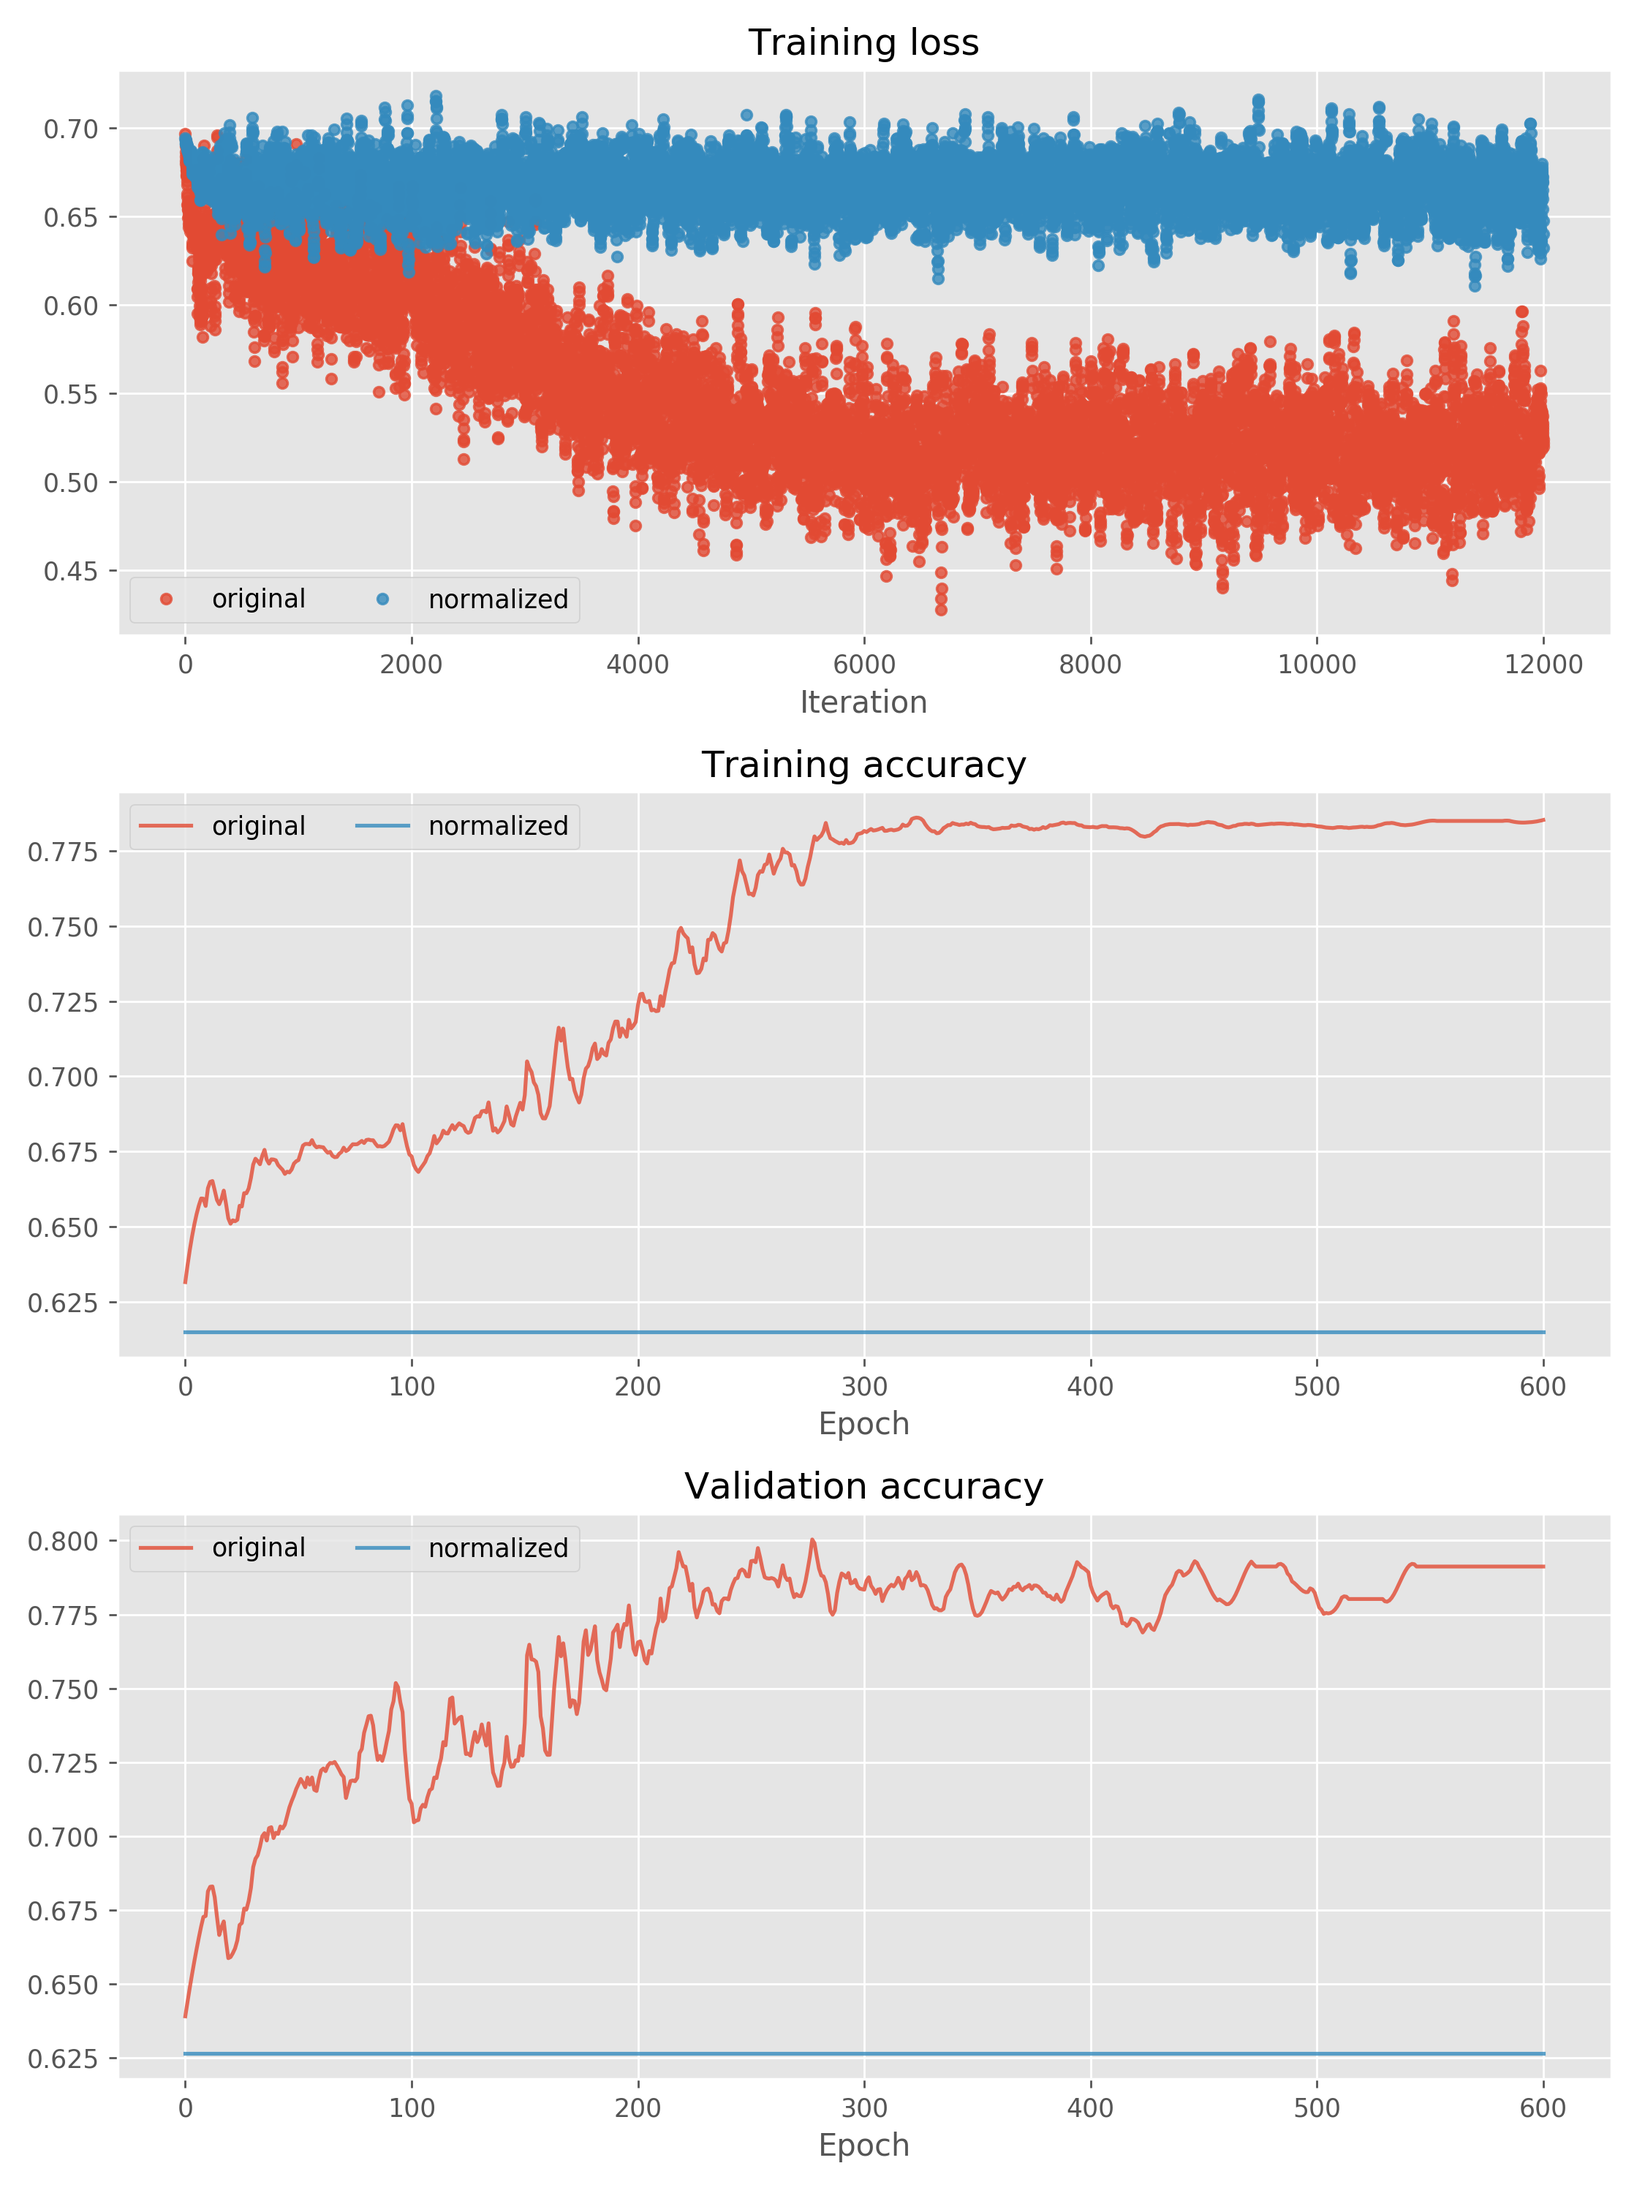
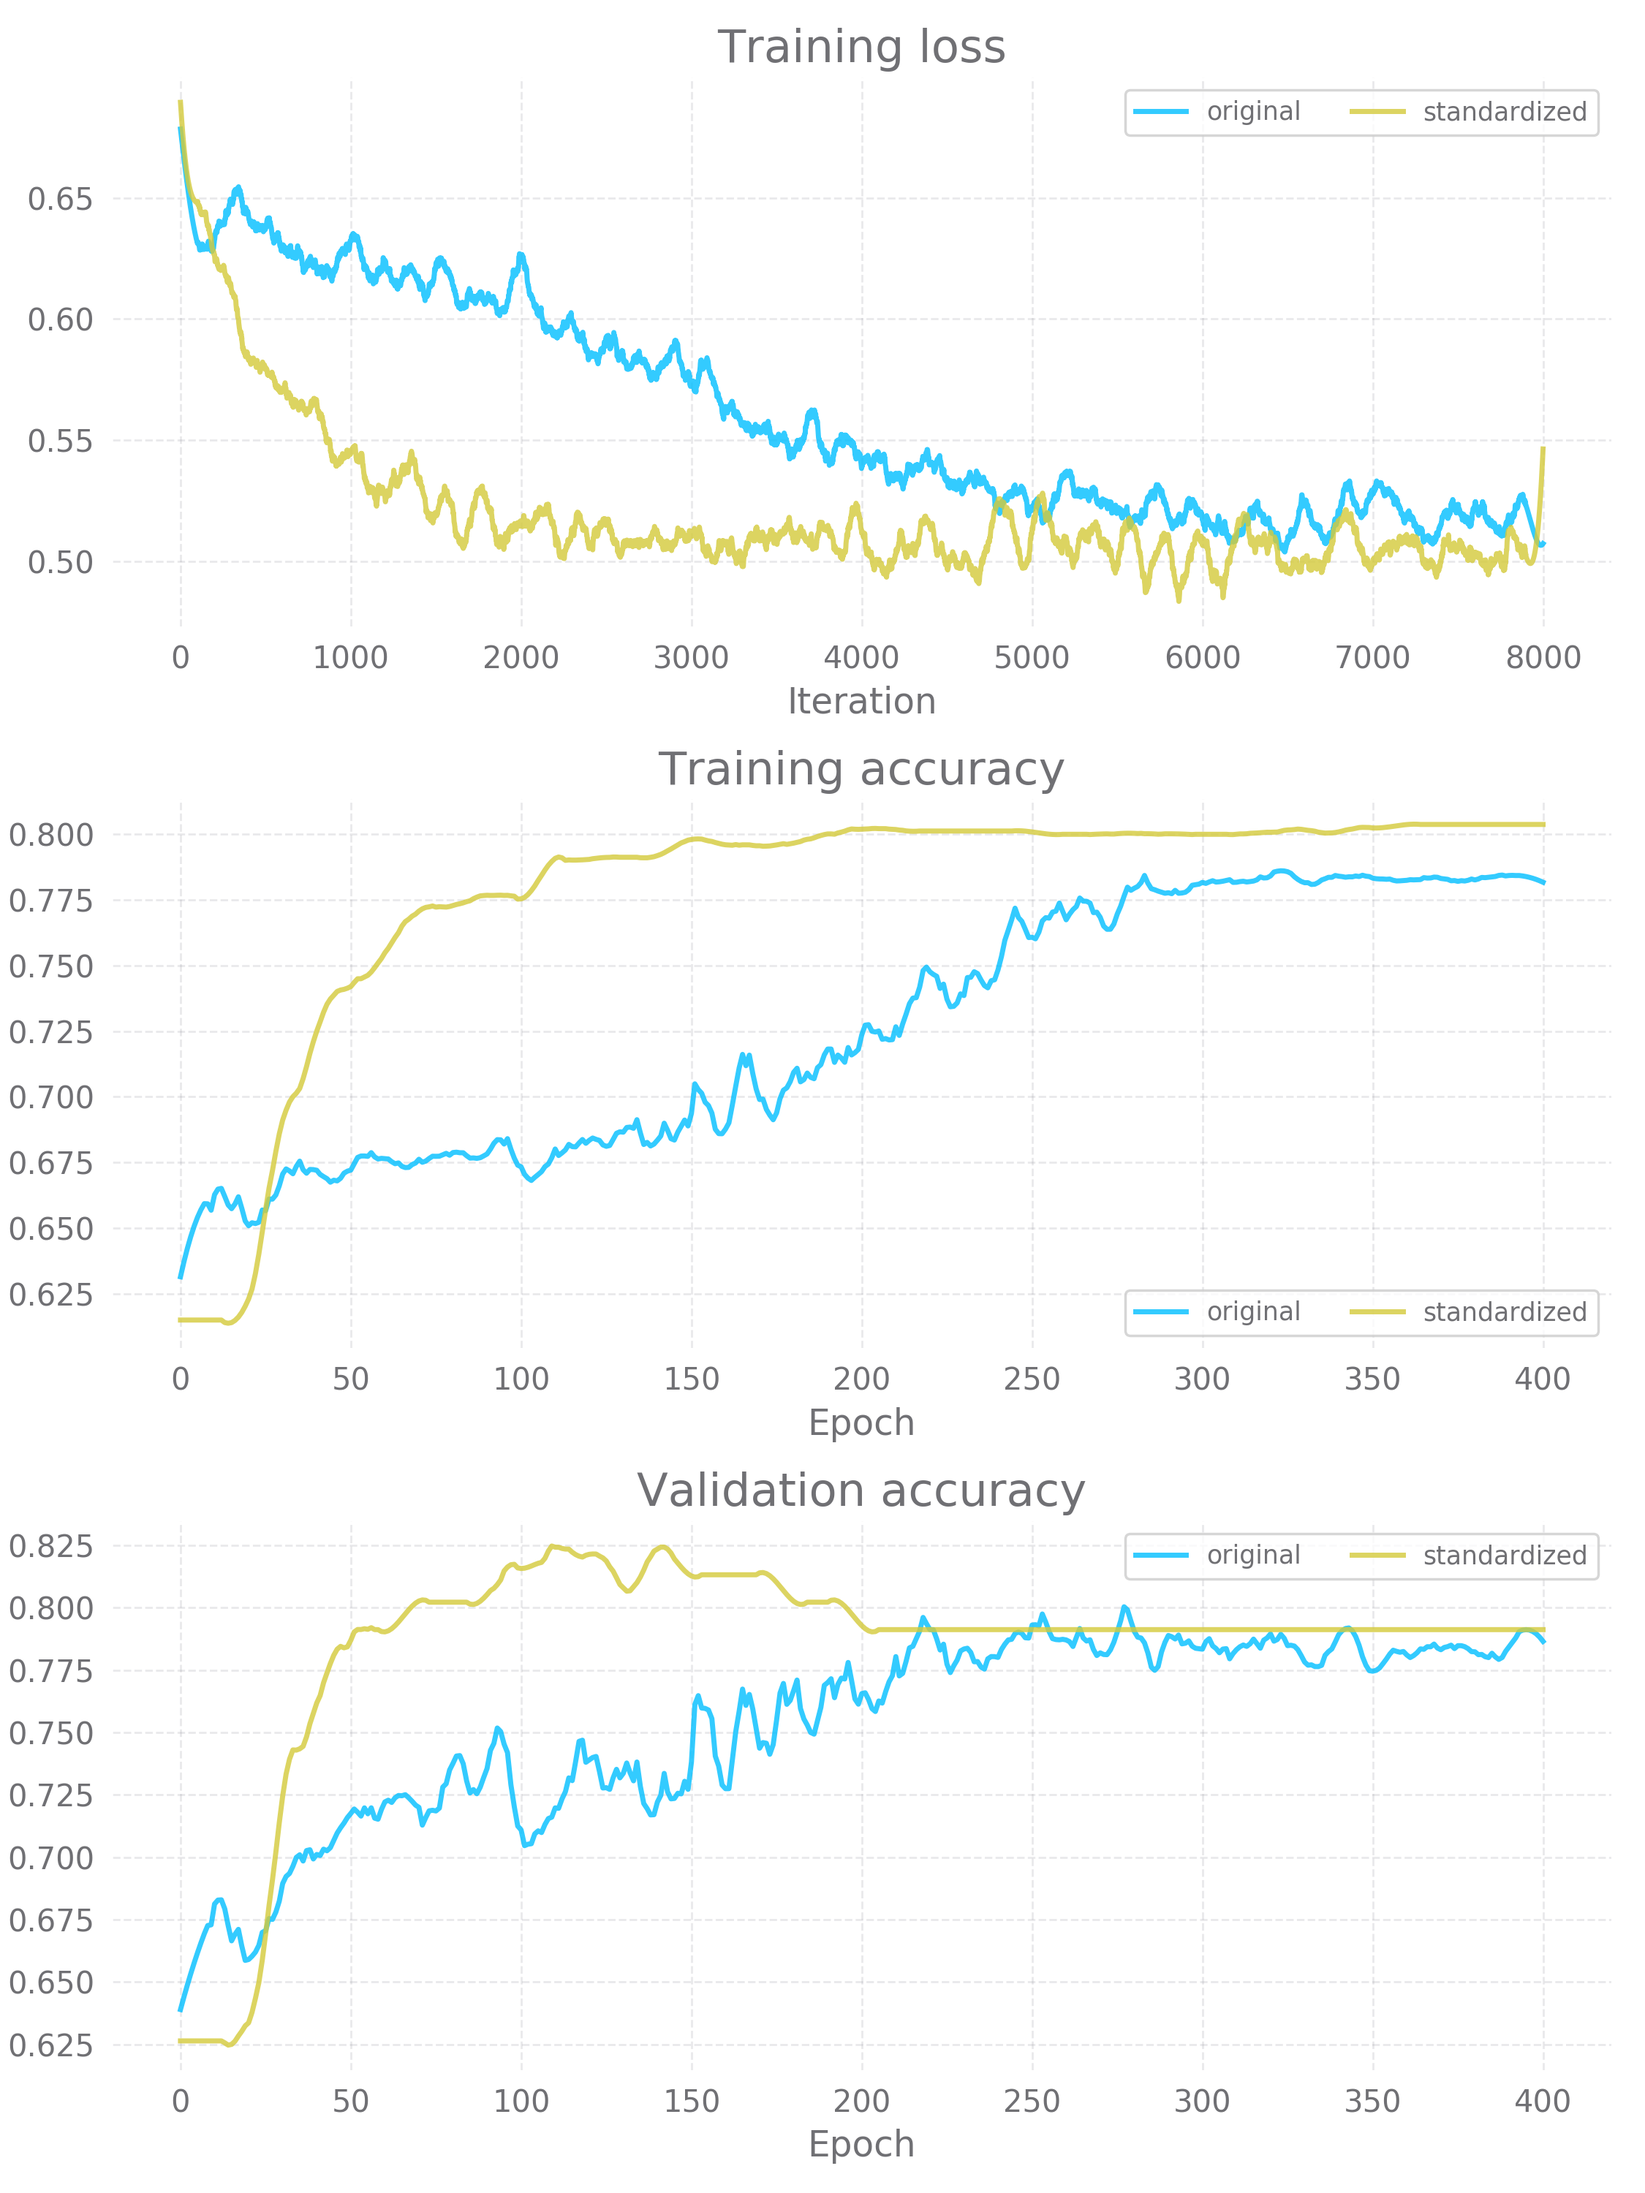
update

diff --git a/main.py b/main.py
@@ -92,7 +92,7 @@ def grid_search(data, **kwargs):
     return
 
 
-def plot(solver, filename):
+def plot(solver, filename, a=1, m='-o'):
     plt.subplot(3, 1, 1)
     plt.title('Training loss')
     plt.xlabel('Iteration')
@@ -106,11 +106,11 @@ def plot(solver, filename):
     plt.xlabel('Epoch')
 
     plt.subplot(3, 1, 1)
-    plt.plot(solver.loss_history, 'o', markersize=4)
+    plt.plot(solver.loss_history, 'o', markersize=4, alpha=a)
     plt.subplot(3, 1, 2)
-    plt.plot(solver.train_acc_history, '-o', markersize=4)
+    plt.plot(solver.train_acc_history, m, markersize=4, alpha=a)
     plt.subplot(3, 1, 3)
-    plt.plot(solver.val_acc_history, '-o', markersize=4)
+    plt.plot(solver.val_acc_history, m, markersize=4, alpha=a)
 
     for i in [1, 2, 3]:
         plt.subplot(3, 1, i)
@@ -346,30 +346,30 @@ def problem2():
     #                             num_classes=2,
     #                             weight_scale=5e-2,
     #                             reg=1e-5)
-    grid_search(
-        data,
-        weight_scale=list(np.logspace(0, -3, 4)),
-        reg=list(np.logspace(-1, -5, 5)),
-        lr=list(np.logspace(-1, -4, 8)),
-        lr_dec=list(np.linspace(0.9, 1, 5)),
-        batch_size=list(np.linspace(5, 100, 5, dtype=int))
-    )
+    # grid_search(
+    #     data,
+    #     weight_scale=list(np.logspace(0, -3, 4)),
+    #     reg=list(np.logspace(-1, -5, 5)),
+    #     lr=list(np.logspace(-1, -4, 8)),
+    #     lr_dec=list(np.linspace(0.9, 1, 5)),
+    #     batch_size=list(np.linspace(5, 100, 5, dtype=int))
+    # )
     # return
     model_2 = FullyConnectedNet([3, 3],
                                 input_dim=6,
                                 num_classes=2,
-                                weight_scale=0.01,
-                                reg=0.1)
+                                weight_scale=0.05,
+                                reg=1e-5)
     solver_2 = Solver(
         model_2,
         data,
         update_rule='sgd',
         optim_config={
-            'learning_rate': 0.0002682695795279727,
+            'learning_rate': 0.01,
         },
         lr_decay=0.999,
-        num_epochs=1000,
-        batch_size=26,
+        num_epochs=800,
+        batch_size=8,
         print_every=100,
         verbose=False)
 
@@ -386,7 +386,8 @@ def problem2():
     #     print_every=100,
     #     verbose=False)
     solver_2.train()
-    plot_smooth(solver_2, 'prob2.png', a=0.8, m='-')
+    # plot_smooth(solver_2, 'prob2.png', a=0.8, m='-')
+    plot(solver_2, 'prob2.png', a=0.8, m='-')
     return
 
 
@@ -448,7 +449,7 @@ def problem3():
     model_3_nor = FullyConnectedNet([3, 3],
                                     input_dim=6,
                                     num_classes=2,
-                                    weight_scale=5e-2,
+                                    weight_scale=5e-1,
                                     reg=1e-4)
     solver_3_nor = Solver(
         model_3_nor,
@@ -573,9 +574,9 @@ def problem5():
         optim_config={
             'learning_rate': 0.01,
         },
-        lr_decay=0.98,
+        lr_decay=0.999,
         num_epochs=NUM_EPOCH,
-        batch_size=40,
+        batch_size=8,
         print_every=100,
         name='original',
         verbose=False)
@@ -611,15 +612,15 @@ def problem5():
         optim_config={
             'learning_rate': 0.01,
         },
-        lr_decay=0.98,
+        lr_decay=0.999,
         num_epochs=NUM_EPOCH,
-        batch_size=40,
+        batch_size=8,
         print_every=100,
         name='categorical',
         verbose=False)
     solver_5_cat.train()
     plot(solver_5_cat, 'prob5_cat.png')
-    plot_solvers([solver_5, solver_5_cat], 'prob5_compared.png')
+    plot_solvers([solver_5, solver_5_cat], 'prob5_compared.png', m='-')
     return
 
 
@@ -733,9 +734,9 @@ def his(FEAT, feat_analysis, nbin, upper_bound=1e5):
 
 if __name__ == '__main__':
     # problem1()
-    problem2()
+    # problem2()
     # problem3()
     # problem4()
-    # problem5()
+    problem5()
     # problem6()
     pass

diff --git a/README.md b/README.md
@@ -12,14 +12,17 @@
 ### Problem 2
 ![](/result/prob2.png)
 
+
+
 ### Problem 3
 ![](/result/prob3_compared.png)
+According to the figures, it is obvious that standardization on scalar feature is helpful. Model with standardization converges faster than that without standardization. We also find that we need to initialize larger weights to model with standardization.
 
 ### Problem 4
 ![](/result/prob4.png)
-To find the feature that affect the performance the most, we mute one of the feature at a time. Therefore, we can figure out which feature is most important. According to the figures, we can find that **Pclass**, **Fare** and **Sex** are the most important features. This result is consistent with the history of sinking of the RMS Titanic. 
+To find the feature that affects the performance the most, we mute one of the feature at a time. Therefore, we can figure out which feature is most important. According to the figures, we can find that **Pclass**, **Fare** and **Sex** are the most important features. This result is consistent with the history of the sinking of the RMS Titanic. 
 
-At 00:05 on 15 April 1912, Captain Smith ordered the ship's lifeboats uncovered and the passengers mustered. The thoroughness of the muster was heavily dependent on the class of the passengers; the first-class stewards were in charge of only a few cabins, while those responsible for the second- and third-class passengers had to manage large numbers of people. The first-class stewards provided hands-on assistance, helping their charges to get dressed and bringing them out onto the deck. With far more people to deal with, the second- and third-class stewards mostly confined their efforts to throwing open doors and telling passengers to put on lifebelts and come up top. In third class, passengers were largely left to their own devices after being informed of the need to come on deck. Many passengers and crew were reluctant to comply, either refusing to believe that there was a problem or preferring the warmth of the ship's interior to the bitterly cold night air. The passengers were not told that the ship was sinking, though a few noticed that she was listing. Beside, women and children have higher priority to board the lifeboats.
+At 00:05 on 15 April 1912, Captain Smith ordered the ship's lifeboats uncovered and the passengers mustered. The thoroughness of the muster was heavily dependent on the class of the passengers; the first-class stewards were in charge of only a few cabins, while those responsible for the second- and third-class passengers had to manage large numbers of people. The first-class stewards provided hands-on assistance, helping their charges to get dressed and bringing them out onto the deck. With far more people to deal with, the second- and third-class stewards mostly confined their efforts to throwing open doors and telling passengers to put on lifebelts and come up top. In third class, passengers were largely left to their own devices after being informed of the need to come on deck. Many passengers and crew were reluctant to comply, either refusing to believe that there was a problem or preferring the warmth of the ship's interior to the bitterly cold night air. The passengers were not told that the ship was sinking, though a few noticed that she was listing. Besides, women and children have higher priority to board the lifeboats.
 
 ### Problem 5
 ![](/result/prob5_compared.png)
